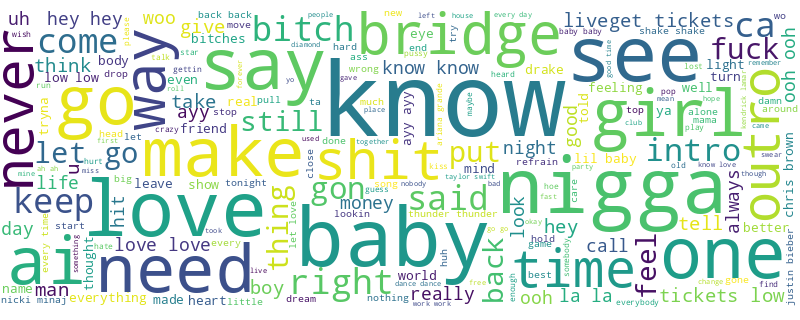
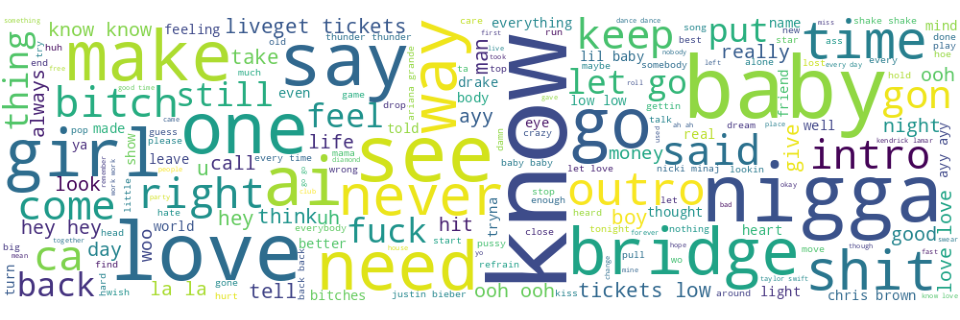
fix plt exception

diff --git a/src/app.py b/src/app.py
@@ -202,10 +202,10 @@ def generate_page_content(page_title, year):
             for word in remove_words:
                 df['word cloud'] = df['word cloud'].str.replace(fr'\b{word}\b', '', regex=True)
             text = ' '.join(df['word cloud'])
-            wordcloud = WordCloud(width=800, height=300, background_color='white').generate(text)
+            wordcloud = WordCloud(width=1200, height=300, background_color='white').generate(text)
             image_filename = '../data/processed/wordcloud.png'
             plt.switch_backend('Agg') 
-            plt.figure(figsize = (10, 4), facecolor = None)
+            plt.figure(figsize = (12, 4), facecolor = None)
             plt.imshow(wordcloud)
             plt.axis("off")
             plt.tight_layout(pad = 0)
